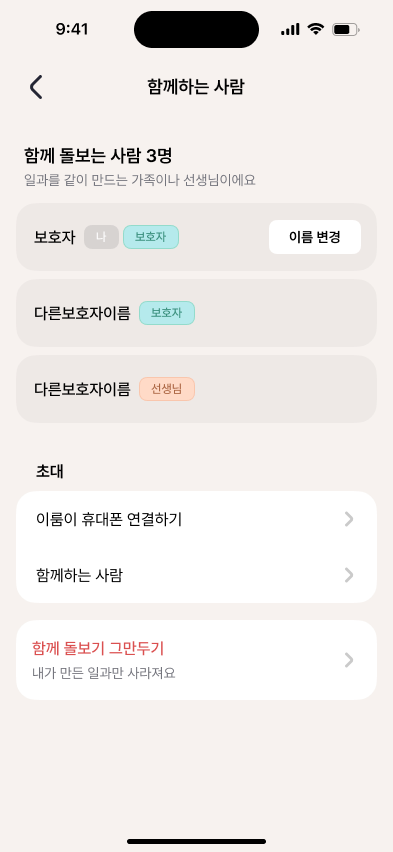
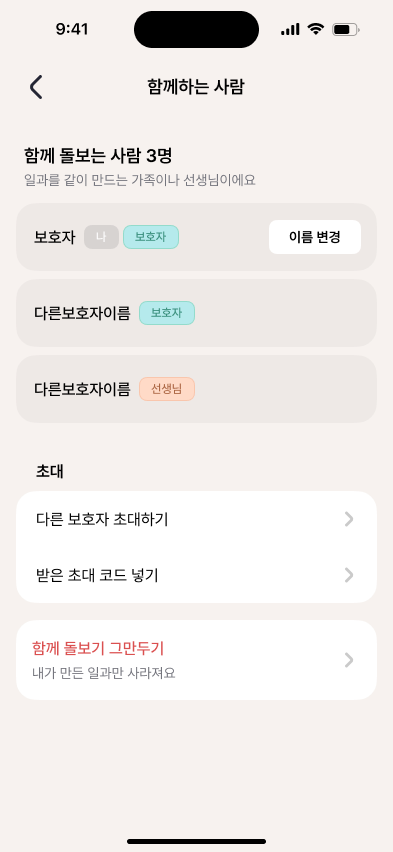
함께하는 사람 화면과 이름 변경 시트를 새 시안에 맞춘다 : design : 시트 아래 여백을 기기 안전영역과 무관하게 56으로 고정해 안전영역 34 기기에서 13px 올라가던 시트를 시안 자리(윗변 407)에 놓고, 입력칸 글자 시작을 시안 24에 맞췄다. 큰 글자에서 머리 글과 초대·그만두기 줄이 어절 중간에서 꺾이던 것을 공통 KeptText 로 막고 칩이 넘치면 줄을 바꾸게 했다. 목록 시안이 초대 문구를 고쳐 export 를 교체했다. https://github.com/Twin-Fang/elum/issues/680

Changed region(s): [[0.0916, 0.5798, 0.458, 0.6408], [0.0916, 0.6714, 0.3053, 0.7019], [0.3359, 0.6714, 0.3969, 0.7019]]

diff --git a/client/test/guardian_edit_sheet_layout_test.dart b/client/test/guardian_edit_sheet_layout_test.dart
@@ -1,0 +1,76 @@
+import 'package:elum/core/storage/in_memory_storage.dart';
+import 'package:elum/core/storage/local_storage.dart';
+import 'package:elum/core/theme/app_theme.dart';
+import 'package:elum/core/widgets/elum_bottom_sheet.dart';
+import 'package:elum/features/member/application/member_providers.dart';
+import 'package:elum/features/profile/data/profile_repository.dart';
+import 'package:elum/features/profile/presentation/guardian_edit_sheet.dart';
+import 'package:elum/features/profile/presentation/guardians_screen.dart';
+import 'package:elum/features/profile/presentation/widgets/guardian_person_row.dart';
+import 'package:flutter/material.dart';
+import 'package:flutter_riverpod/flutter_riverpod.dart';
+import 'package:flutter_screenutil/flutter_screenutil.dart';
+import 'package:flutter_test/flutter_test.dart';
+import 'package:go_router/go_router.dart';
+
+import 'helpers/device_viewport.dart';
+import 'helpers/profile_fixtures.dart';
+
+/// 이름 변경 시트 자리: 홈 인디케이터가 34 인 기기(iPhone 16)에서도 시안(1532:6877) 위치
+void main() {
+  useFigmaViewport();
+
+  // 시트 윗변 · 저장 버튼 윗변 (시안 export 실측, 논리 px)
+  const designSheetTop = 407.0;
+  const designSaveButtonTop = 730.0;
+  // 입력칸 왼쪽 끝에서 글자 시작까지 (시안 글자 x 40 - 칸 x 16)
+  const designFieldTextInset = 24.0;
+
+  Future<void> openSheet(WidgetTester tester, {double bottomInset = 34}) async {
+    await tester.pumpWidget(
+      ProviderScope(
+        overrides: [
+          profileRepositoryProvider.overrideWithValue(FakeProfileRepository()),
+          localStorageProvider.overrideWithValue(InMemoryStorage(onboardingCompleted: true)),
+          memberProvider.overrideWith((ref) async => memberWith([kProfileA])),
+        ],
+        child: ScreenUtilInit(
+          designSize: const Size(393, 852),
+          useInheritedMediaQuery: true,
+          builder: (context, _) => MaterialApp.router(
+            theme: AppTheme.light,
+            debugShowCheckedModeBanner: false,
+            builder: (context, child) => MediaQuery(
+              data: MediaQuery.of(context).copyWith(
+                padding: EdgeInsets.only(top: 59, bottom: bottomInset),
+              ),
+              child: child!,
+            ),
+            routerConfig: GoRouter(
+              initialLocation: '/x',
+              routes: [GoRoute(path: '/x', builder: (_, _) => const GuardiansScreen())],
+            ),
+          ),
+        ),
+      ),
+    );
+    await tester.pumpAndSettle();
+    await tester.tap(find.byKey(guardianRenameButtonKey));
+    await tester.pumpAndSettle();
+  }
+
+  testWidgets('하단 안전영역이 34 여도 시트 윗변과 저장 버튼이 시안 자리에 선다', (tester) async {
+    await openSheet(tester);
+
+    expect(tester.getTopLeft(find.byType(ElumSheetSurface)).dy, closeTo(designSheetTop, 1));
+    expect(tester.getTopLeft(find.byKey(guardianEditSaveButtonKey)).dy, closeTo(designSaveButtonTop, 1));
+  });
+
+  testWidgets('입력칸 글자는 칸 왼쪽에서 시안 여백만큼 떨어져 시작한다', (tester) async {
+    await openSheet(tester);
+
+    final fieldLeft = tester.getTopLeft(find.byKey(guardianEditNameFieldKey)).dx;
+    final textLeft = tester.getTopLeft(find.byType(EditableText)).dx;
+    expect(textLeft - fieldLeft, closeTo(designFieldTextInset, 0.5));
+  });
+}

diff --git a/client/test/multi_guardian_font_scale_test.dart b/client/test/multi_guardian_font_scale_test.dart
@@ -1,5 +1,6 @@
 import 'package:elum/core/storage/local_storage.dart';
 import 'package:elum/core/theme/app_theme.dart';
+import 'package:elum/core/widgets/kept_text.dart';
 import 'package:elum/core/network/app_failure.dart';
 import 'package:elum/features/profile/data/profile_repository.dart';
 import 'package:elum/features/profile/domain/guardian_member.dart';
@@ -8,6 +9,7 @@ import 'package:elum/features/profile/presentation/invite_code_screen.dart';
 import 'package:elum/features/profile/presentation/guardian_edit_sheet.dart';
 import 'package:elum/features/profile/presentation/widgets/guardian_person_row.dart';
 import 'package:flutter/material.dart';
+import 'package:flutter/rendering.dart';
 import 'package:flutter_riverpod/flutter_riverpod.dart';
 import 'package:flutter_screenutil/flutter_screenutil.dart';
 import 'package:flutter_test/flutter_test.dart';
@@ -82,6 +84,27 @@ void main() {
     expect(find.text('나'), findsOneWidget);
   });
 
+  /// 마지막 줄에 남은 글 (끊지 말라는 표시 제외)
+  String lastLineOf(WidgetTester tester, String wholeText) {
+    // 끊지 말라는 표시가 섞인 글이라 원문(KeptText.text)으로 위젯을 찾는다
+    final keptText = find.byWidgetPredicate((w) => w is KeptText && w.text.contains(wholeText));
+    final paragraph = tester.renderObject<RenderParagraph>(
+      find.descendant(of: keptText, matching: find.byType(RichText)),
+    );
+    final text = paragraph.text.toPlainText();
+    // 맨 아래 줄 왼쪽 끝 글자부터 끝까지
+    final start = paragraph.getPositionForOffset(Offset(0, paragraph.size.height - 1)).offset;
+    return text.substring(start).replaceAll('\u2060', '').trim();
+  }
+
+  testWidgets('접근성 최대 글꼴(3.0)에서 머리 글과 초대 줄이 어절 중간에서 꺾이지 않는다', (tester) async {
+    await pump(tester, Routes.guardianPeople, const GuardiansScreen(), scale: 3.0);
+
+    // `2` 와 `명`, `초대하` 와 `기` 로 갈라지지 않고 띄어쓰기에서 꺾인다
+    expect(lastLineOf(tester, '함께 돌보는 사람'), endsWith('2명'));
+    expect(lastLineOf(tester, '다른 보호자 초대하기'), endsWith('초대하기'));
+  });
+
   testWidgets('이름 변경 시트는 글꼴 2.0 에서 넘침 없이 저장 버튼이 화면 안에 닿는다', (tester) async {
     await pump(tester, Routes.guardianPeople, const GuardiansScreen());
 
@@ -102,9 +125,9 @@ void main() {
     repo.guardiansResult = const Attempt.ok([Guardian(id: 'g-1', me: true)]);
     await pump(tester, Routes.guardianPeople, const GuardiansScreen());
 
-    await tester.ensureVisible(find.text('함께 돌보기 그만두기'));
+    await tester.ensureVisible(findKept('함께 돌보기 그만두기', exact: true));
     await tester.pump();
-    await tester.tap(find.text('함께 돌보기 그만두기'));
+    await tester.tap(findKept('함께 돌보기 그만두기', exact: true));
     await tester.pumpAndSettle();
 
     expect(findKept('되돌릴 수 없어요'), findsOneWidget);

diff --git a/client/lib/features/profile/presentation/guardians_screen.dart b/client/lib/features/profile/presentation/guardians_screen.dart
@@ -6,7 +6,6 @@ import 'package:go_router/go_router.dart';
 import '../../../core/l10n/l10n_context.dart';
 import '../../../core/network/server_error_code.dart';
 import '../../../core/state/busy_state_mixin.dart';
-import '../../../core/text/keep_words.dart';
 import '../../../core/theme/theme_context_ext.dart';
 import '../../../core/widgets/elum_dialog.dart';
 import '../../../core/widgets/elum_error_view.dart';
@@ -23,6 +22,7 @@ import 'widgets/guardian_person_row.dart';
 import 'widgets/people_action_card.dart';
 import '../../../core/router/pop_or_home.dart';
 import '../../../core/widgets/elum_toast.dart';
+import '../../../core/widgets/kept_text.dart';
 import '../../member/application/member_providers.dart';
 import '../../../core/router/routes.dart';
 
@@ -234,12 +234,12 @@ class _GuardiansScreenState extends ConsumerState<GuardiansScreen>
           children: [
             // 몇 명인지 모르면(목록 전) 제목 없이 설명만
             if (guardians != null)
-              Text(
+              KeptText(
                 context.l10n.guardiansPeopleHeader(guardians.length),
                 style: context.typo.peopleHeading.copyWith(color: context.colors.peopleTextPrimary),
               ),
             SizedBox(height: _headingToCaptionGap.h),
-            _KeptText(
+            KeptText(
               context.l10n.guardiansIntro,
               style: context.typo.peopleCaption.copyWith(color: context.colors.peopleTextSecondary),
             ),
@@ -283,7 +283,7 @@ class _GuardiansScreenState extends ConsumerState<GuardiansScreen>
           SizedBox(height: _rowGap.h),
           Padding(
             padding: EdgeInsets.symmetric(horizontal: _headerInset.w),
-            child: _KeptText(
+            child: KeptText(
               context.l10n.guardiansAloneHint,
               style: context.typo.peopleCaption.copyWith(color: context.colors.peopleTextSecondary),
             ),
@@ -334,21 +334,6 @@ class _GuardiansScreenState extends ConsumerState<GuardiansScreen>
       ),
     ];
   }
-}
-
-/// 어절 단위로 줄바꿈하는 글. 낭독기에는 표시가 섞이지 않은 원문을 읽게 한다.
-class _KeptText extends StatelessWidget {
-  const _KeptText(this.text, {required this.style});
-
-  final String text;
-  final TextStyle style;
-
-  @override
-  Widget build(BuildContext context) => Text(
-    keepWords(text, locale: context.appLocale),
-    semanticsLabel: text,
-    style: style,
-  );
 }
 
 class _Loading extends StatelessWidget {

diff --git a/client/test/guardians_screen_test.dart b/client/test/guardians_screen_test.dart
@@ -112,7 +112,7 @@ void main() {
       expect(find.textContaining('E-NET-OFFLINE'), findsOneWidget);
       expect(find.textContaining('다시 시도'), findsOneWidget);
       // 몇 명인지 모르면 "마지막 보호자"인지 말할 수 없다 — 누르게 두지 않는다
-      await tester.tap(find.text('함께 돌보기 그만두기'));
+      await tester.tap(findKept('함께 돌보기 그만두기', exact: true));
       await tester.pumpAndSettle();
       expect(find.text('함께 돌보기를 그만둘까요?'), findsNothing);
 
@@ -141,7 +141,7 @@ void main() {
     testWidgets('먼저 무엇이 사라지고 무엇이 남는지 말한다 — 확인 전에는 아무것도 보내지 않는다', (tester) async {
       await open(tester);
 
-      await tester.tap(find.text('함께 돌보기 그만두기'));
+      await tester.tap(findKept('함께 돌보기 그만두기', exact: true));
       await tester.pumpAndSettle();
 
       expect(find.text('함께 돌보기를 그만둘까요?'), findsOneWidget);
@@ -158,7 +158,7 @@ void main() {
       repo.guardiansResult = const Attempt.ok([Guardian(id: 'g-1', me: true, displayName: '엄마')]);
       await open(tester);
 
-      await tester.tap(find.text('함께 돌보기 그만두기'));
+      await tester.tap(findKept('함께 돌보기 그만두기', exact: true));
       await tester.pumpAndSettle();
 
       expect(findKept('함께하는 보호자가 없어요'), findsOneWidget);
@@ -174,7 +174,7 @@ void main() {
       repo.guardiansResult = const Attempt.ok([Guardian(id: 'g-1', me: true)]);
       await open(tester);
 
-      await tester.tap(find.text('함께 돌보기 그만두기'));
+      await tester.tap(findKept('함께 돌보기 그만두기', exact: true));
       await tester.pumpAndSettle();
       await tester.tap(find.text('그만두기'));
       await tester.pumpAndSettle();
@@ -188,7 +188,7 @@ void main() {
       repo.leaveFailure = serverFailure(500, ServerErrorCode.internalServerError, '잠시 후 다시 시도해주세요.');
       await open(tester);
 
-      await tester.tap(find.text('함께 돌보기 그만두기'));
+      await tester.tap(findKept('함께 돌보기 그만두기', exact: true));
       await tester.pumpAndSettle();
       await tester.tap(find.text('그만두기'));
       await tester.pumpAndSettle();

diff --git a/client/lib/features/profile/presentation/guardian_edit_sheet.dart b/client/lib/features/profile/presentation/guardian_edit_sheet.dart
@@ -50,9 +50,10 @@ class _GuardianEditSheetState extends State<_GuardianEditSheet> {
   /// 서버가 막는 길이 (넘기면 400 이라 입력에서 미리 막음)
   static const _maxNameLength = 20;
 
-  /// 시안 위치: 손잡이 아래 제목까지 · 시트 바닥 여백 (기기 홈 인디케이터 21 제외)
+  /// 시안 위치: 시트 윗변에서 제목까지 · 저장 버튼 아래에서 화면 바닥까지
+  /// (시안 시트 높이 445 = 화면 852 - 407 이 안전영역을 포함하므로 기기 안전영역을 더하지 않음)
   static const _topPadding = 40.0;
-  static const _bottomPadding = 35.0;
+  static const _bottomPadding = 56.0;
   static const _sheetPadH = 16.0;
 
   /// 시트 윗변에서 손잡이 윗변까지 (시안 PNG 실측 12)
@@ -103,7 +104,7 @@ class _GuardianEditSheetState extends State<_GuardianEditSheet> {
             _sheetPadH.w,
             _topPadding.h,
             _sheetPadH.w,
-            _bottomPadding.h + MediaQuery.paddingOf(context).bottom,
+            _bottomPadding.h,
           ),
           child: Column(
             crossAxisAlignment: CrossAxisAlignment.stretch,
@@ -170,8 +171,8 @@ class _NameField extends StatelessWidget {
   final String hintText;
   final int maxLength;
 
-  /// 글자 시작선 (칸 왼쪽 끝에서)
-  static const _padStart = 24.0;
+  /// 시안 글자 시작선은 칸 왼쪽에서 24. 입력 위젯이 4를 더 들여 쓰므로 그만큼 뺌
+  static const _padStart = 20.0;
 
   @override
   Widget build(BuildContext context) {

diff --git a/client/lib/features/profile/presentation/widgets/people_action_card.dart b/client/lib/features/profile/presentation/widgets/people_action_card.dart
@@ -8,6 +8,7 @@ import '../../../../core/assets/app_assets.dart';
 import '../../../../core/theme/theme_context_ext.dart';
 import '../../../../core/widgets/app_pressable.dart';
 import '../../../../core/widgets/elum_spinner.dart';
+import '../../../../core/widgets/kept_text.dart';
 
 /// 흰 카드 한 장에 [PeopleActionRow] 를 쌓음 (초대 · 그만두기). 줄 사이 선 없음
 class PeopleActionCard extends StatelessWidget {
@@ -84,7 +85,8 @@ class PeopleActionRow extends StatelessWidget {
               child: Column(
                 crossAxisAlignment: CrossAxisAlignment.start,
                 children: [
-                  Text(
+                  // 큰 글자에서 어절 중간(`초대하` / `기`)이 아니라 띄어쓰기에서 꺾이게 함
+                  KeptText(
                     label,
                     style: isDestructive
                         ? typo.peopleRowName.copyWith(color: colors.settingsDestructive)
@@ -92,7 +94,7 @@ class PeopleActionRow extends StatelessWidget {
                   ),
                   if (subtitle != null) ...[
                     SizedBox(height: _subtitleGap.h),
-                    Text(
+                    KeptText(
                       subtitle,
                       style: typo.peopleCaption.copyWith(color: colors.peopleTextSecondary),
                     ),

diff --git a/client/lib/features/profile/presentation/widgets/guardian_person_row.dart b/client/lib/features/profile/presentation/widgets/guardian_person_row.dart
@@ -66,17 +66,17 @@ class GuardianPersonRow extends StatelessWidget {
                     overflow: TextOverflow.ellipsis,
                     style: context.typo.peopleRowName.copyWith(color: colors.peopleTextPrimary),
                   ),
-                  Row(
-                    mainAxisSize: MainAxisSize.min,
+                  // 아주 큰 글자에서 칩 둘이 한 줄에 못 들어가면 칩끼리도 줄을 바꿈
+                  Wrap(
+                    spacing: _chipToChipGap.w,
+                    runSpacing: _chipToChipGap.h,
                     children: [
-                      if (guardian.me) ...[
+                      if (guardian.me)
                         _PersonChip(
                           label: context.l10n.guardiansMeBadge,
                           background: colors.peopleMeBadgeBg,
                           foreground: colors.peopleMeBadgeText,
                         ),
-                        SizedBox(width: _chipToChipGap.w),
-                      ],
                       _PersonChip(
                         label: guardian.kind.label,
                         background: isCaregiver

diff --git a/client/lib/core/widgets/kept_text.dart b/client/lib/core/widgets/kept_text.dart
@@ -1,0 +1,19 @@
+import 'package:flutter/material.dart';
+
+import '../l10n/l10n_context.dart';
+import '../text/keep_words.dart';
+
+/// 어절 단위로 줄바꿈하는 글. 낭독기에는 표시가 섞이지 않은 원문을 읽게 함
+class KeptText extends StatelessWidget {
+  const KeptText(this.text, {super.key, required this.style});
+
+  final String text;
+  final TextStyle style;
+
+  @override
+  Widget build(BuildContext context) => Text(
+    keepWords(text, locale: context.appLocale),
+    semanticsLabel: text,
+    style: style,
+  );
+}

diff --git a/client/docs/figma-frames.md b/client/docs/figma-frames.md
@@ -156,7 +156,7 @@ fileKey  VSmGuv1iuOpLZmp6QeBHWr
 | 추가질문 CTA | `262:4854` — `카드 만들기` | 규칙(`08-design-principles.md`) — **바로 다음 화면 이름**을 쓴다 | `카드 만들기` (#380 — 이제 둘이 같다) |
 | 카카오 버튼 | `238:1808`(iOS) — `카카오로 로그인` | `1022:4333`(AOS) — **`카카오로 시작하기`** | 기본을 따름 |
 | 함께하는 사람 — 이름 없는 내 줄 | `1027:4617` — `보호자` | `1532:6877`·`1532:7013` 배경 — `이름없음`(검정 30%) | 기본을 따름 |
-| 함께하는 사람 — 초대 카드 줄 | `1532:6877` 배경 — `다른 보호자 초대하기` · `받은 초대코드 넣기` | `1027:4617` — `이룸이 휴대폰 연결하기` · `함께하는 사람`(복사 실수로 봄) | 앞쪽 문구(띄어쓰기는 앱 기존 `받은 초대 코드 넣기`) |
+| 함께하는 사람 — 초대 카드 줄 | `1027:4617` 이 `이룸이 휴대폰 연결하기` · `함께하는 사람` 이었다가 디자이너가 `다른 보호자 초대하기` · `받은 초대 코드 넣기` 로 고쳐 해소됨 (시트 배경 `1532:6877` 은 `받은 초대코드 넣기`로 띄어쓰기만 다름) | — | 시안과 같음 |
 
 로딩 문구도 시안이 `40% 진행 되었어요`로 **띄어쓰기가 틀려 있다**(`진행되었어요`).
 앱은 `진행됐어요`를 쓴다 — 짧고 규칙에 어긋나지 않아 그대로 둔다.
